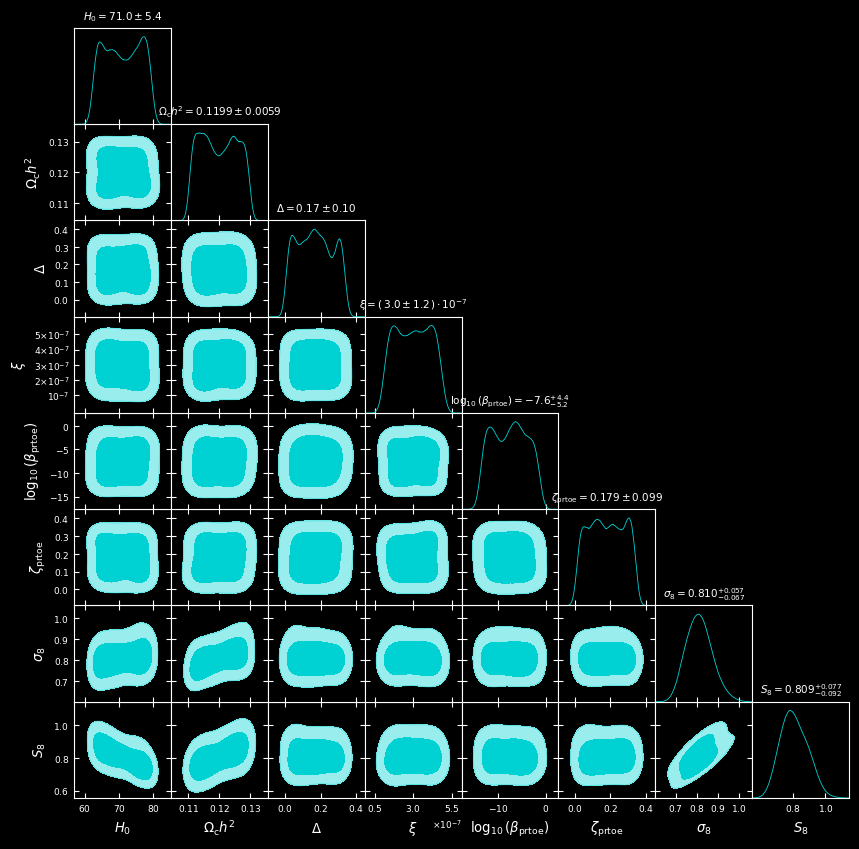
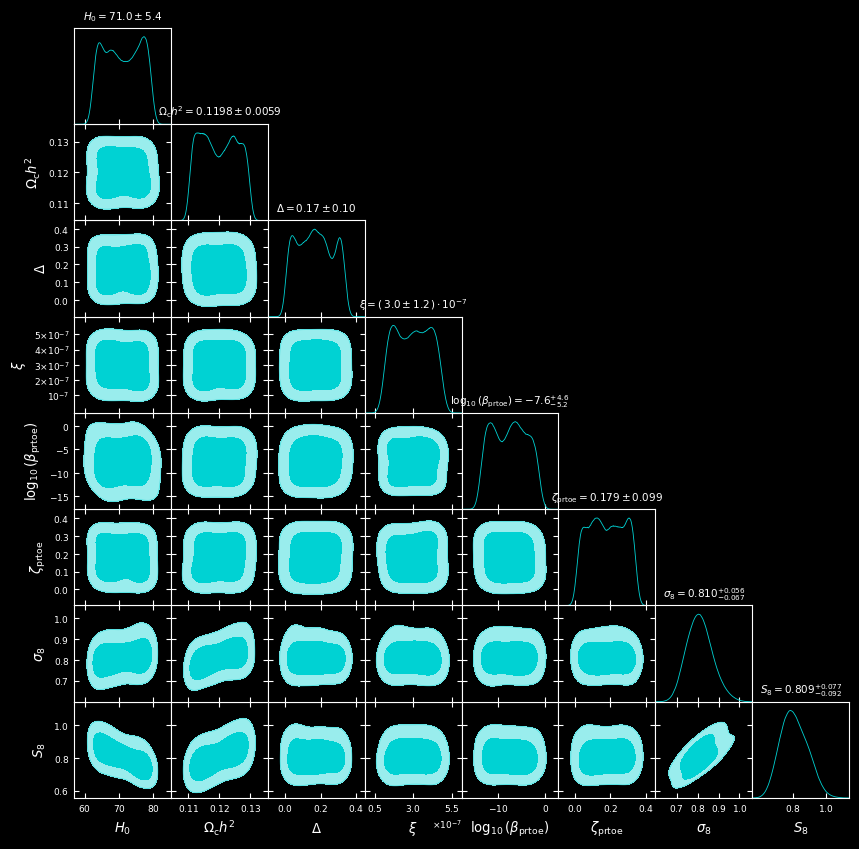
Adjust pop-up modal copy to politely ask researchers to test PRTOE in their free time

diff --git a/dashboard/index.js b/dashboard/index.js
@@ -3548,7 +3548,7 @@ document.addEventListener('DOMContentLoaded', () => {
                 You are running the modified CLASS engine equipped with the <strong>PRTOE (Pulford-Romsa Theory of Everything)</strong> cosmology model. 
             </p>
             <p style="font-size: 0.95rem; line-height: 1.6; color: #dcdde1; margin-bottom: 25px;">
-                We politely invite you to run PRTOE model configurations and evaluate their fits, comparing the resulting Bayesian evidence ($\Delta\ln\mathcal{Z}$), parameter pulls, and growth constraints against standard $\Lambda\text{CDM}$. Your test runs and feedback are highly valuable in determining if this model represents a path worth exploring further in modern cosmology.
+                If you have some free time, we would be incredibly grateful if you could run the PRTOE model configurations and evaluate their fits, comparing the resulting Bayesian evidence ($\Delta\ln\mathcal{Z}$), parameter pulls, and growth constraints against standard $\Lambda\text{CDM}$. Your test runs and feedback are highly valuable in determining if this model represents a path worth exploring further in modern cosmology.
             </p>
             <div style="display: flex; gap: 15px; justify-content: center;">
                 <button id="btn-close-proposal" class="btn" style="padding: 10px 24px; font-weight: bold; background: linear-gradient(135deg, #00d2d3, #00a8ff); border: none; border-radius: 4px; color: white; cursor: pointer; font-size: 0.9rem; box-shadow: 0 4px 15px rgba(0, 210, 211, 0.4);">I will help test PRTOE</button>